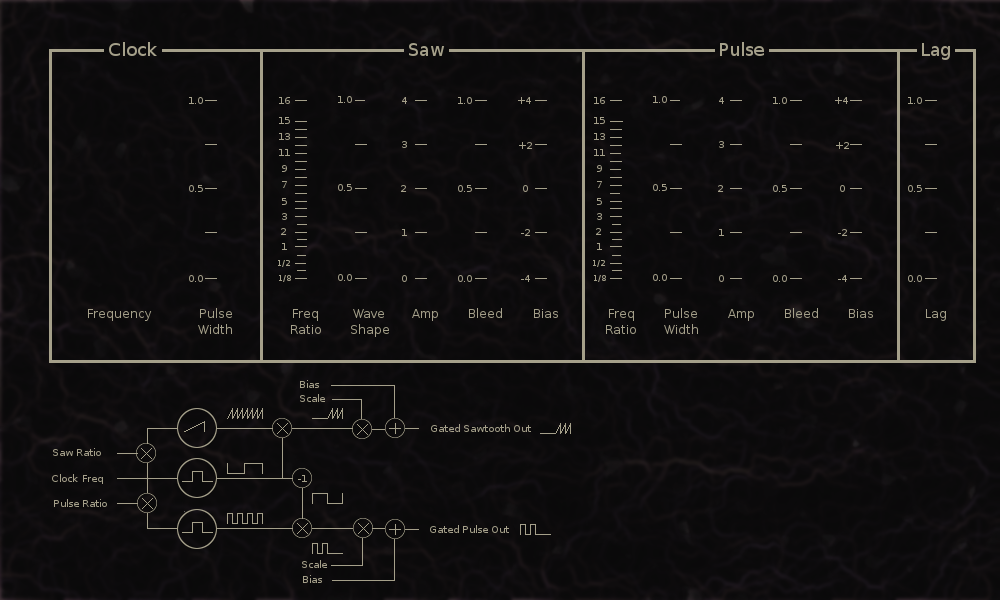
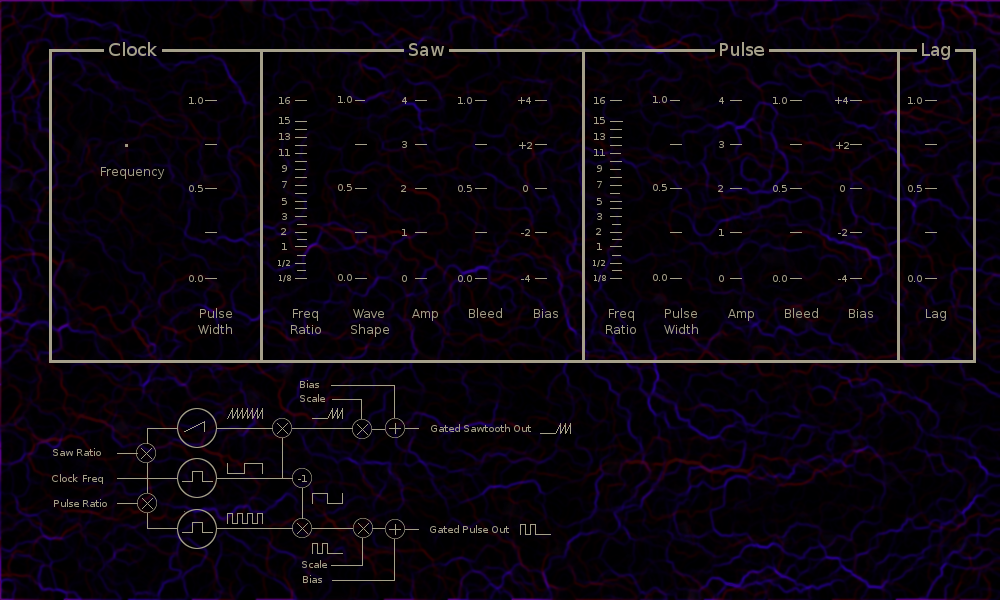
Updated LFO2 to use Tumbler widgets

diff --git a/llia/synths/lfo2/tk/editor.py b/llia/synths/lfo2/tk/editor.py
@@ -4,31 +4,11 @@ from llia.gui.tk.tk_subeditor import TkSubEditor
 import llia.gui.tk.tk_factory as factory
 import llia.gui.tk.control_factory as cf
 from llia.gui.tk.expslider import ExpSlider
-from llia.gui.tk.freq_spinner import FrequencySpinnerControl
+from llia.gui.tk.tumbler import Tumbler
 from llia.synths.lfo2.lfo2_data import RATIOS
 
 def create_editor(parent):
     TkLfo2Panel(parent)
-
-
-# clkFreq     - decade dontrol (0.01 .. 100)
-# clkPw       - normal 
-# clkAmp      - (ignore)
-
-# sawRatio    - discreate harmonics
-# sawSlew     - normal
-# sawAmp      - linear (0 .. 4)
-# sawBleed    - normal
-# sawBias     - linear (-4 .. +4)
-
-# pulseRatio  - discreate harmonics
-# pulseWidth  - normal
-# pulseAmp    - linerar (0 .. 4)
-# pulseBleed  - normal
-# pulseBias   - linear (-4 .. +4)
-
-# lag         - normal
-
 
 
 class TkLfo2Panel(TkSubEditor):
@@ -43,8 +23,7 @@ class TkLfo2Panel(TkSubEditor):
         canvas.pack()
         TkSubEditor.__init__(self, canvas, editor, self.NAME)
         editor.add_child_editor(self.NAME, self)
-        spin_freq = FrequencySpinnerControl(canvas,"clkFreq",editor,
-                                           from_=0,to=1000)
+        tumbler = Tumbler(canvas,"clkFreq",editor,digits=5, scale=0.001)
         s_clk_pw = cf.normalized_slider(canvas, "clkPw", editor)
         s_saw_ratio = cf.discrete_slider(canvas, "sawRatio", editor,
                                          values = RATIOS)
@@ -59,7 +38,7 @@ class TkLfo2Panel(TkSubEditor):
         s_pulse_bleed = cf.normalized_slider(canvas, "pulseBleed", editor)
         s_pulse_bias = cf.linear_slider(canvas, "pulseBias", editor, range_=(-4,4))
         s_lag = cf.normalized_slider(canvas, "lag", editor)
-        self.add_control("clkFreq", spin_freq)
+        self.add_control("clkFreq", tumbler)
         self.add_control("clkPw", s_clk_pw)
         self.add_control("sawRatio", s_saw_ratio)
         self.add_control("sawSlew", s_saw_slew)
@@ -88,13 +67,7 @@ class TkLfo2Panel(TkSubEditor):
         x10 = x9 + 60
         x11 = x10 + 60
         xlag = x11 + 75
-        spin_freq.layout((x0,y0))
-        spin_freq.create_nudgetools(canvas,
-                                    (x0+13,y0+30),
-                                    deltas = (10,0.1,0.01),
-                                    constant =1,
-                                    fill='#131313',
-                                    outline='#a5a08a')
+        tumbler.layout((x0+5,y0+30))
         s_clk_pw.widget().place(x=x1, y=y0, height=200)
         s_saw_ratio.widget().place(x=x2, y=y0, height=200)
         s_saw_slew.widget().place(x=x3, y=y0, height=200)
